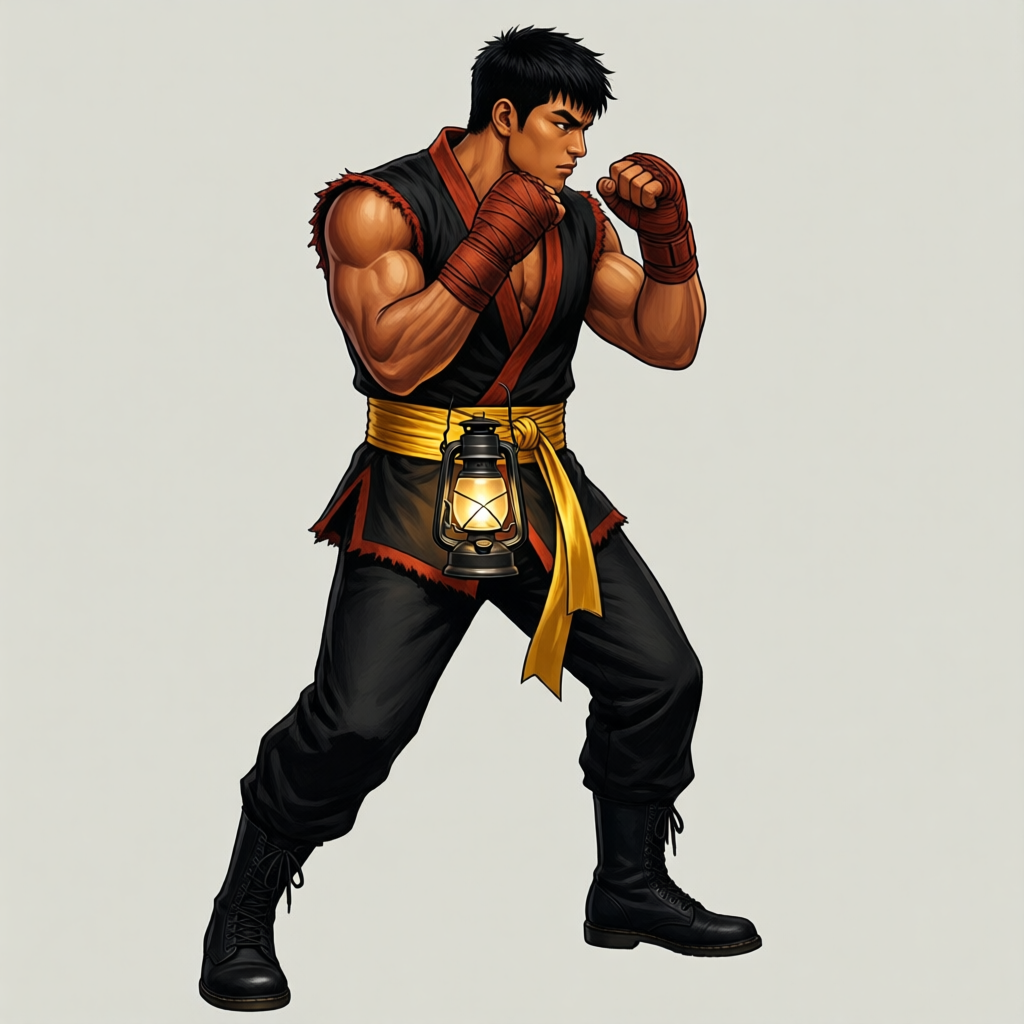
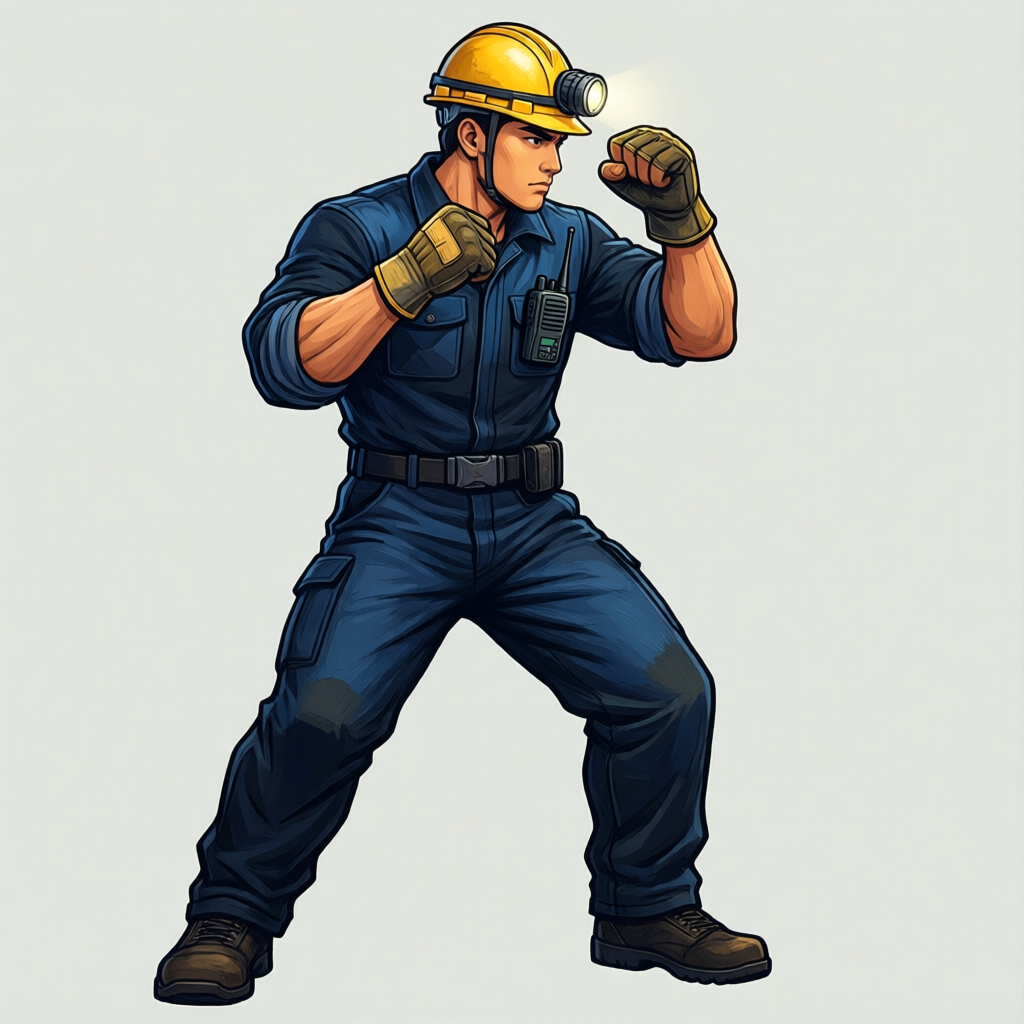
A1 定稿立绘：8 角色新身份重出（视觉 QC 逐张选优：全身入镜/脸部正常/设定符合），c07 霍兰为澡堂管理员手持拖把无违规内容，gen_frames 加心跳

Changed region(s): [[0.125, 0.0, 0.75, 1.0]]

diff --git a/scripts/art/gen_frames.py b/scripts/art/gen_frames.py
@@ -200,8 +200,11 @@ def main():
         todo = [(a, i) for a in anims for i in range(len(data["anims"][a]["frames"]))]
 
     (FRAMES / cid).mkdir(parents=True, exist_ok=True)
+    HB = ROOT / ".check" / "heartbeat"
     n = 0
     for a, i in todo:
+        HB.parent.mkdir(exist_ok=True)
+        HB.touch()
         safe = a.replace(".", "_")
         out = FRAMES / cid / (safe + "_" + format(i, "02d") + ".png")
         pose = POSE_IMG / cid / (safe + "_" + format(i, "02d") + ".png")
